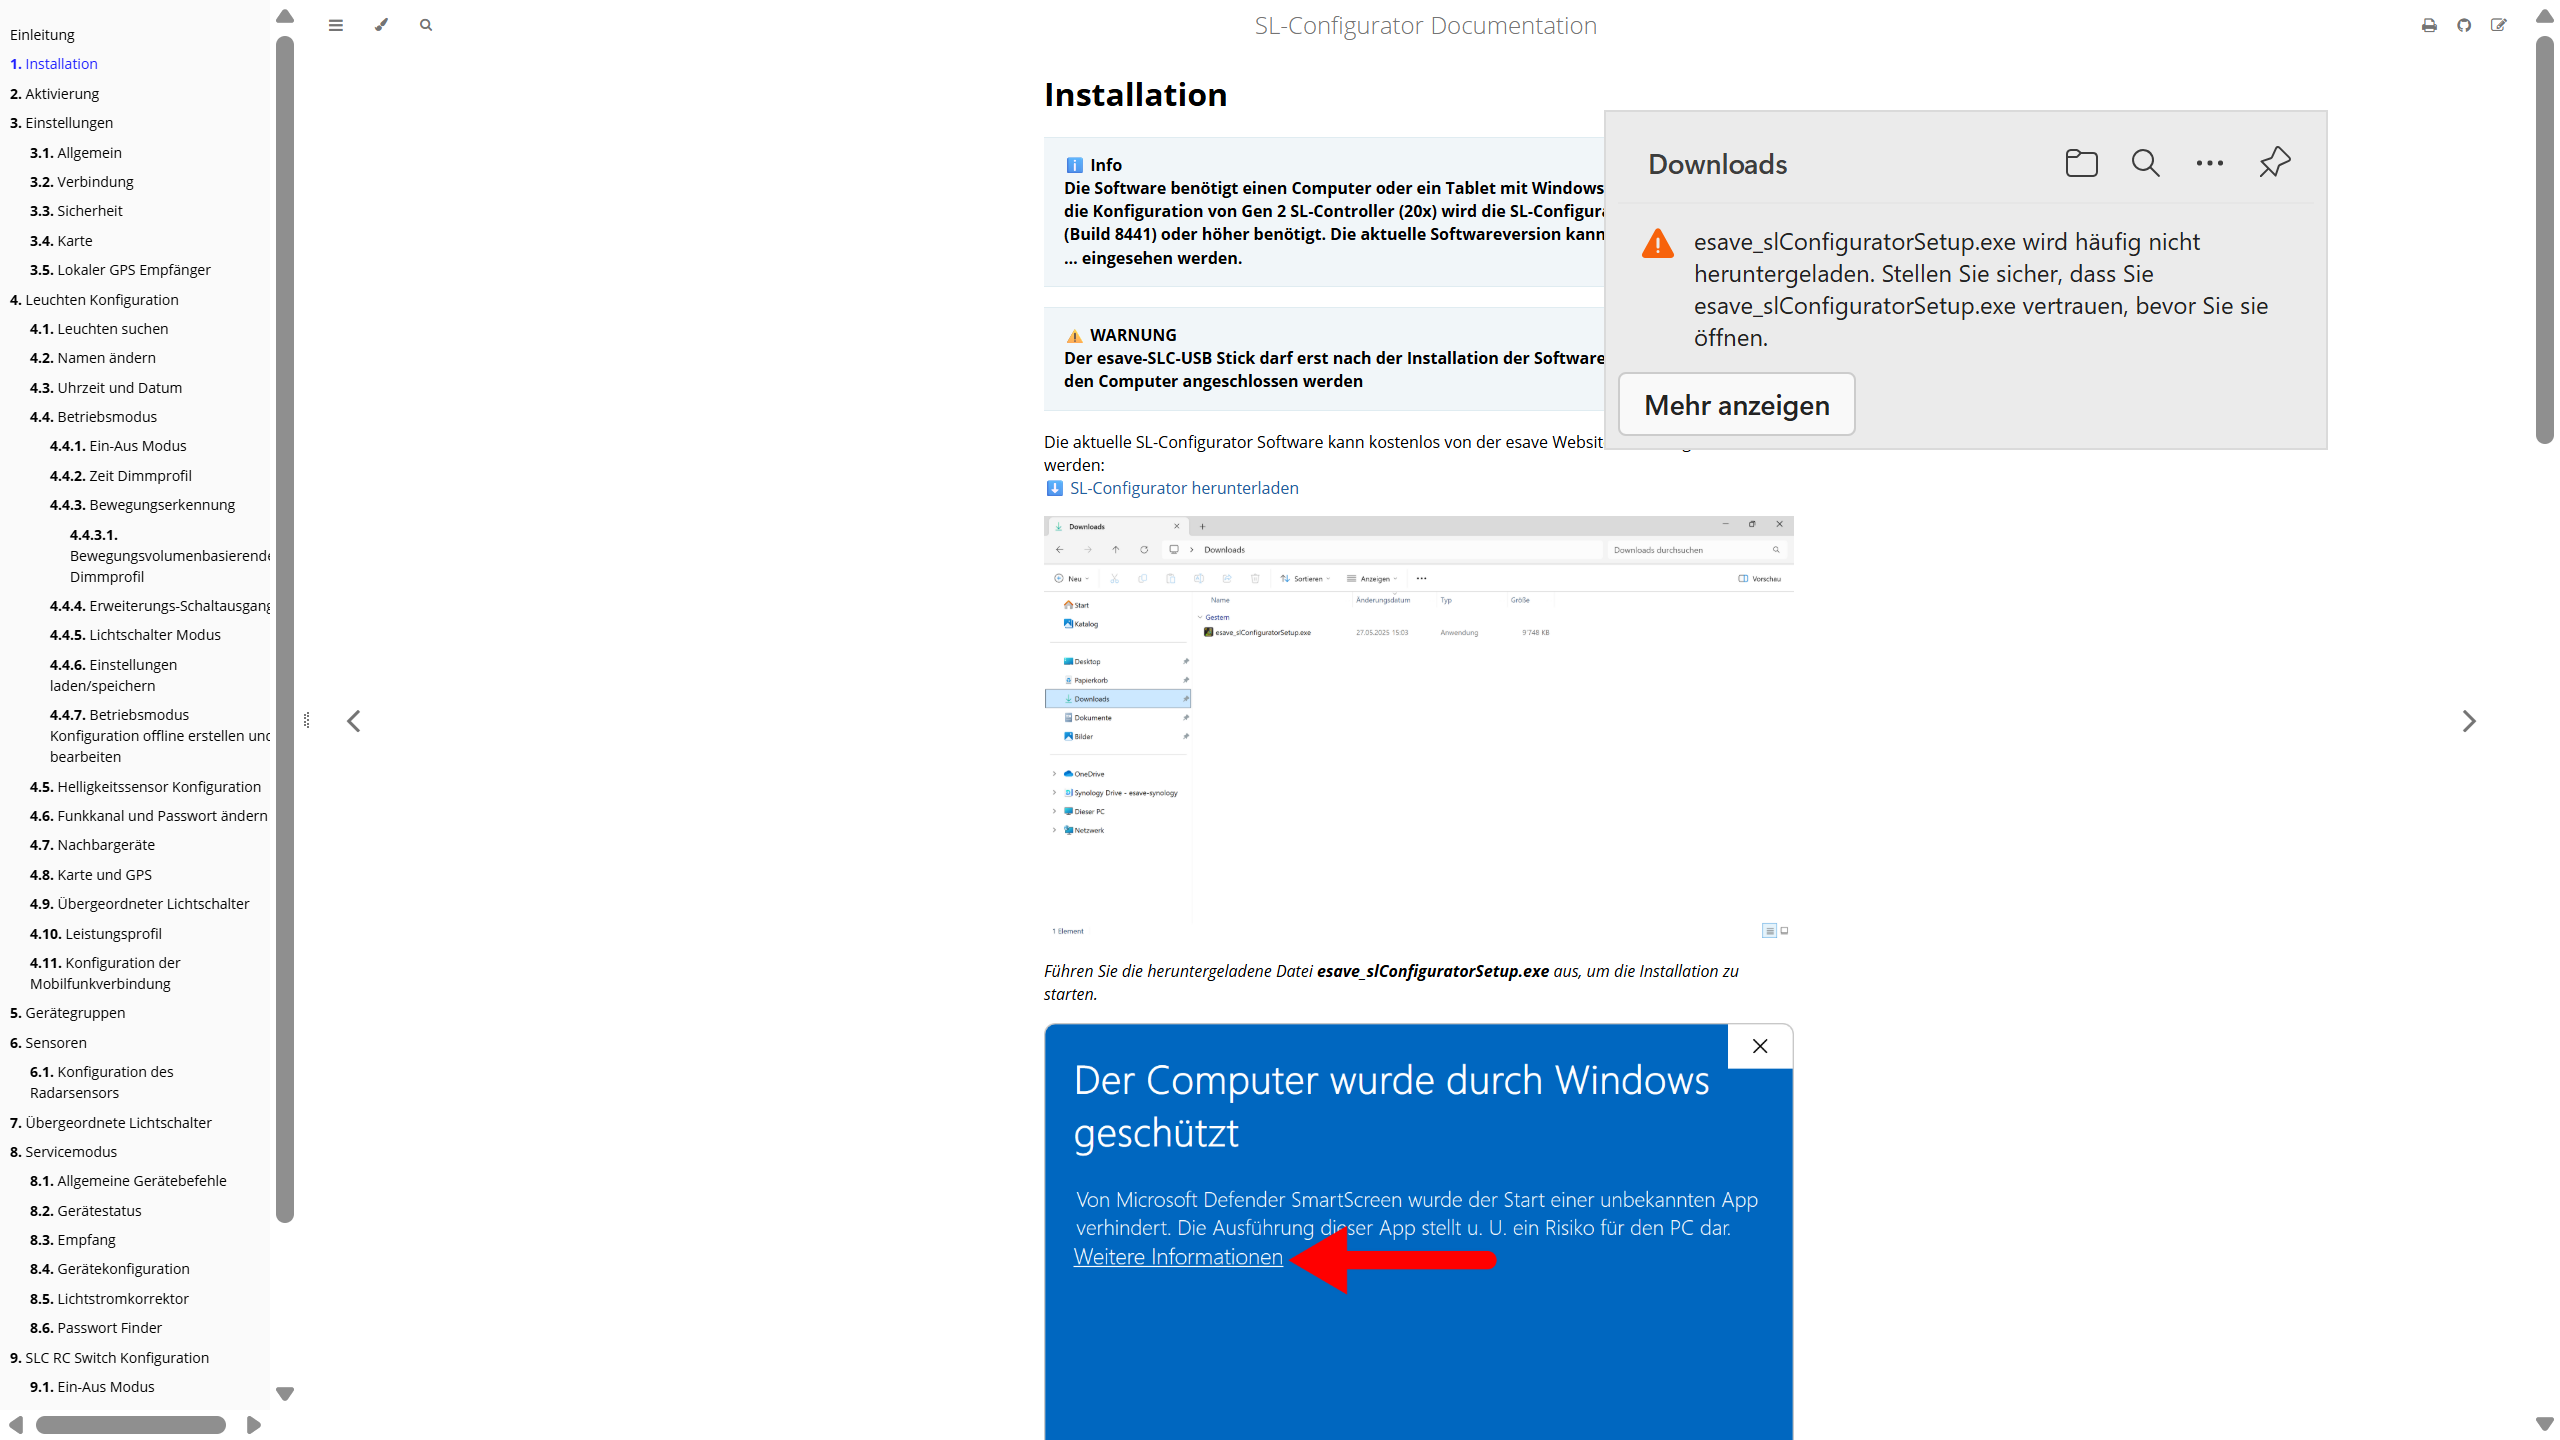
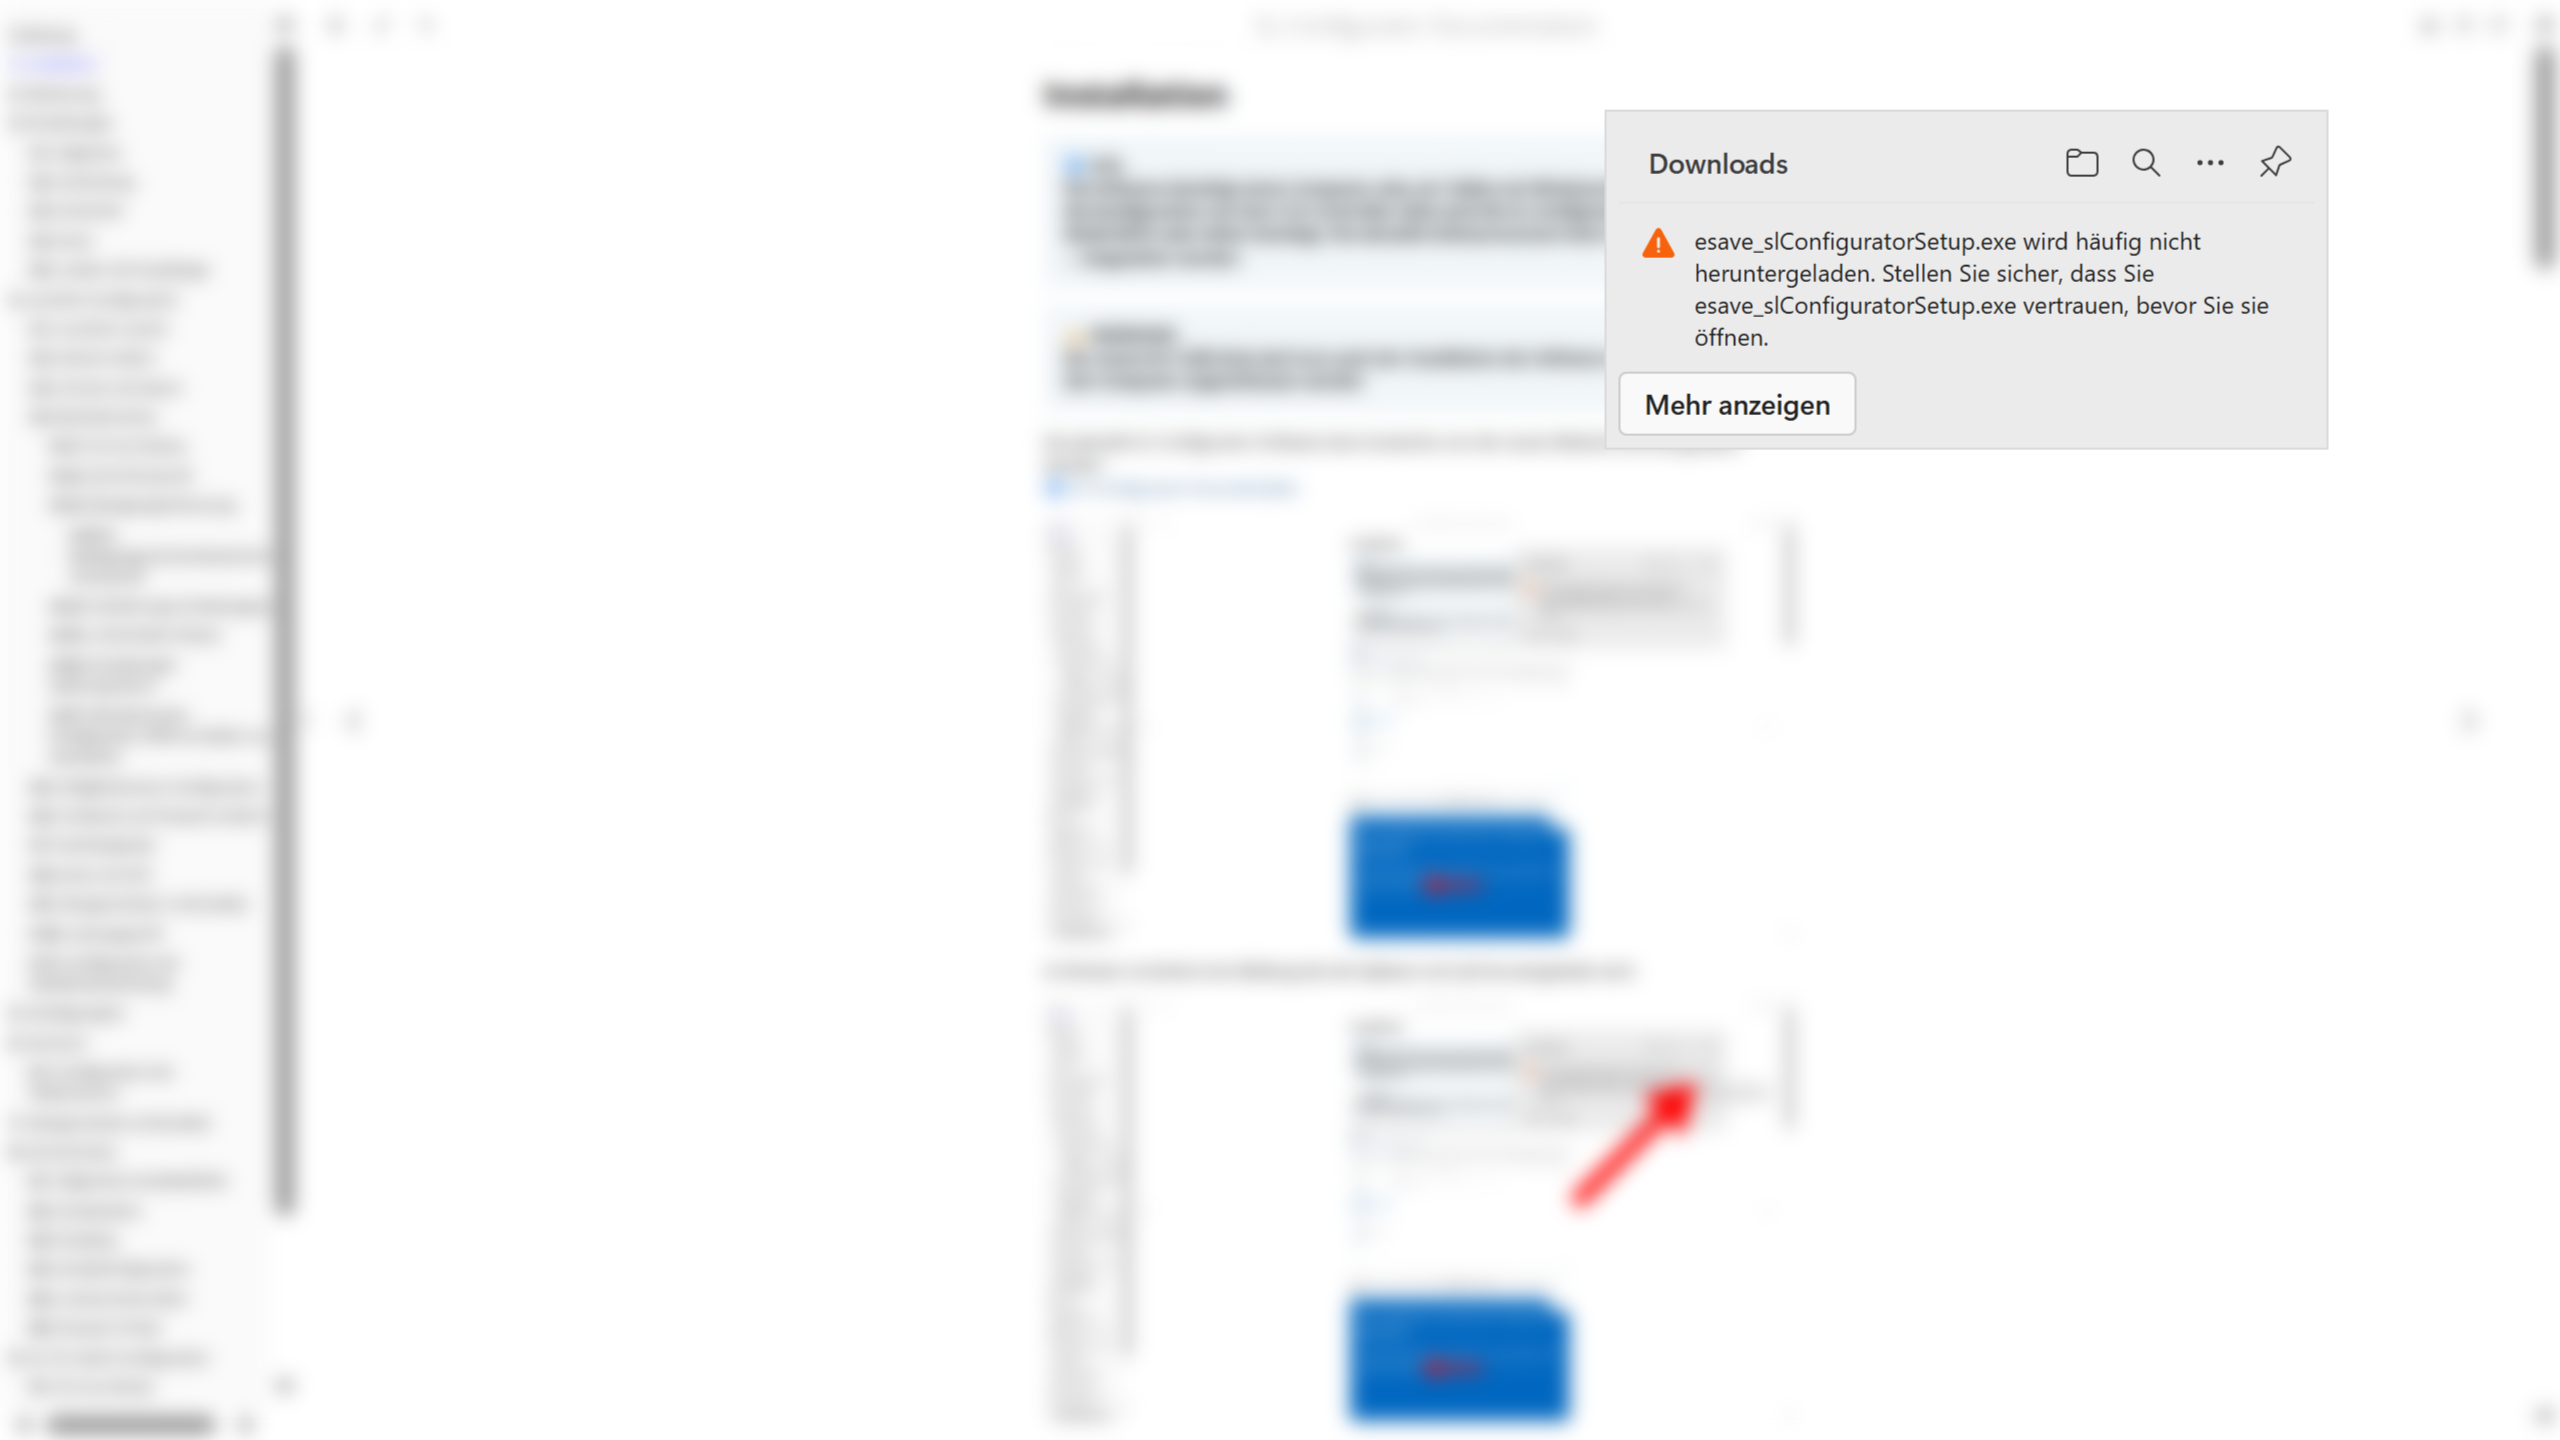
🎨 Added blur effect to installation screenshot - Updated installation-1-download-1.png with privacy-focused blur - Improved README.md content

diff --git a/de/src/1-installation/README.md b/de/src/1-installation/README.md
@@ -11,7 +11,7 @@ Die aktuelle SL-Configurator Software kann kostenlos von der esave Website herun
 
 ![Download und Ausführen der Setup-Datei unter Windows 11](installation-1-download-1.png)
 
-*Im Browser erscheient eine Meldung das die Software nich oft heruntergeladen wird.*
+*Im Browser erscheient eine Meldung dass die Software nich oft heruntergeladen wird.*
 
 ![Download und Ausführen der Setup-Datei unter Windows 11](installation-2-download-2.png)
 
